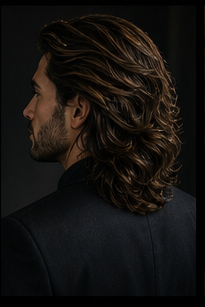
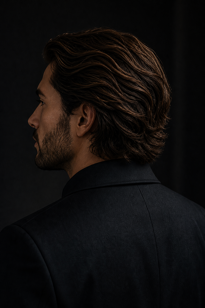
fix(winnen): shorten desired hairstyle artwork

diff --git a/test/contracts/live-momentum-ui.test.js b/test/contracts/live-momentum-ui.test.js
@@ -43,7 +43,7 @@ test('live momentum page renders the requested dashboard surface', () => {
   assert.match(html, /<script src="\/assets\/live-momentum-icon-catalog\.js\?v=20260716b" defer><\/script>/);
   assert.match(html, /<script src="\/assets\/live-momentum-goal-actions\.js\?v=20260716a" defer><\/script>/);
   assert.match(html, /<script src="\/assets\/live-momentum-endgame-interactions\.js\?v=20260722b" defer><\/script>/);
-  assert.match(html, /<script src="\/assets\/live-momentum-endgame-cards\.js\?v=20260804e" defer><\/script>/);
+  assert.match(html, /<script src="\/assets\/live-momentum-endgame-cards\.js\?v=20260809a" defer><\/script>/);
   assert.match(html, /<script src="\/assets\/live-momentum-video\.js\?v=20260722a" defer><\/script>/);
   assert.match(html, /<script src="\/assets\/live-momentum-calendar\.js\?v=20260717a" defer><\/script>/);
   assert.match(html, /<script src="\/assets\/live-momentum\.js\?v=20260804a" defer><\/script>/);
@@ -376,7 +376,7 @@ test('live momentum script wires habit toggles to chart and persisted state', ()
   assert.match(endGameCardsJs, /if \(slot\.dataset\.endGameCardFixed === 'true'\) return/);
   assert.match(endGameCardsJs, /\{ id: 'eigen-automaat-rijden', title: 'Eigen automaat rijden' \}/);
   assert.doesNotMatch(endGameCardsJs, /standaloneImage|function createCard\(card, state, index\)/);
-  assert.match(endGameCardsJs, /live-momentum-endgame-cards\/\$\{card\.imageId \|\| card\.id\}\.png\?v=20260804e/);
+  assert.match(endGameCardsJs, /live-momentum-endgame-cards\/\$\{card\.imageId \|\| card\.id\}\.png\?v=20260809a/);
   assert.match(endGameCardsJs, /\['kantoorpand-in-haaren', 'eigen-koophuis-kopen'\]\.includes\(card\.id\)/);
   assert.doesNotMatch(endGameCardsJs, /atlasIndex|endgame-goals-atlas/);
   assert.match(endGameCardsJs, /title:\s*'PRP Behandeling'/);

diff --git a/live-momentum.html b/live-momentum.html
@@ -144,7 +144,7 @@
   <script src="/assets/live-momentum-icon-catalog.js?v=20260716b" defer></script>
   <script src="/assets/live-momentum-goal-actions.js?v=20260716a" defer></script>
   <script src="/assets/live-momentum-endgame-interactions.js?v=20260722b" defer></script>
-  <script src="/assets/live-momentum-endgame-cards.js?v=20260804e" defer></script>
+  <script src="/assets/live-momentum-endgame-cards.js?v=20260809a" defer></script>
   <script src="/assets/live-momentum-video.js?v=20260722a" defer></script>
   <script src="/assets/live-momentum-calendar.js?v=20260717a" defer></script>
   <script src="/assets/live-momentum.js?v=20260804a" defer></script>

diff --git a/assets/live-momentum-endgame-cards.js b/assets/live-momentum-endgame-cards.js
@@ -146,7 +146,7 @@
     const target = document.createElement('span');
     artwork.className = 'end-game-card-photo';
     image.className = 'end-game-card-photo-image';
-    image.src = `/assets/live-momentum-endgame-cards/${card.imageId || card.id}.png?v=20260804e`;
+    image.src = `/assets/live-momentum-endgame-cards/${card.imageId || card.id}.png?v=20260809a`;
     image.alt = '';
     image.width = 205;
     image.height = 307;
